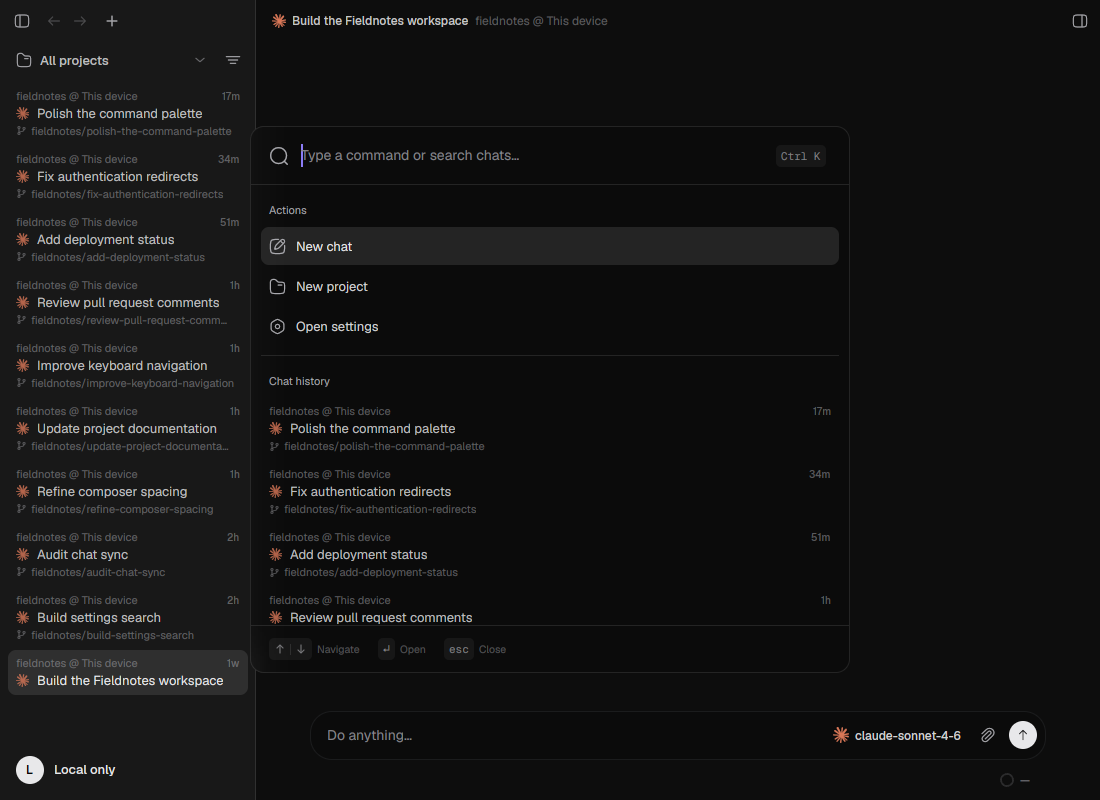
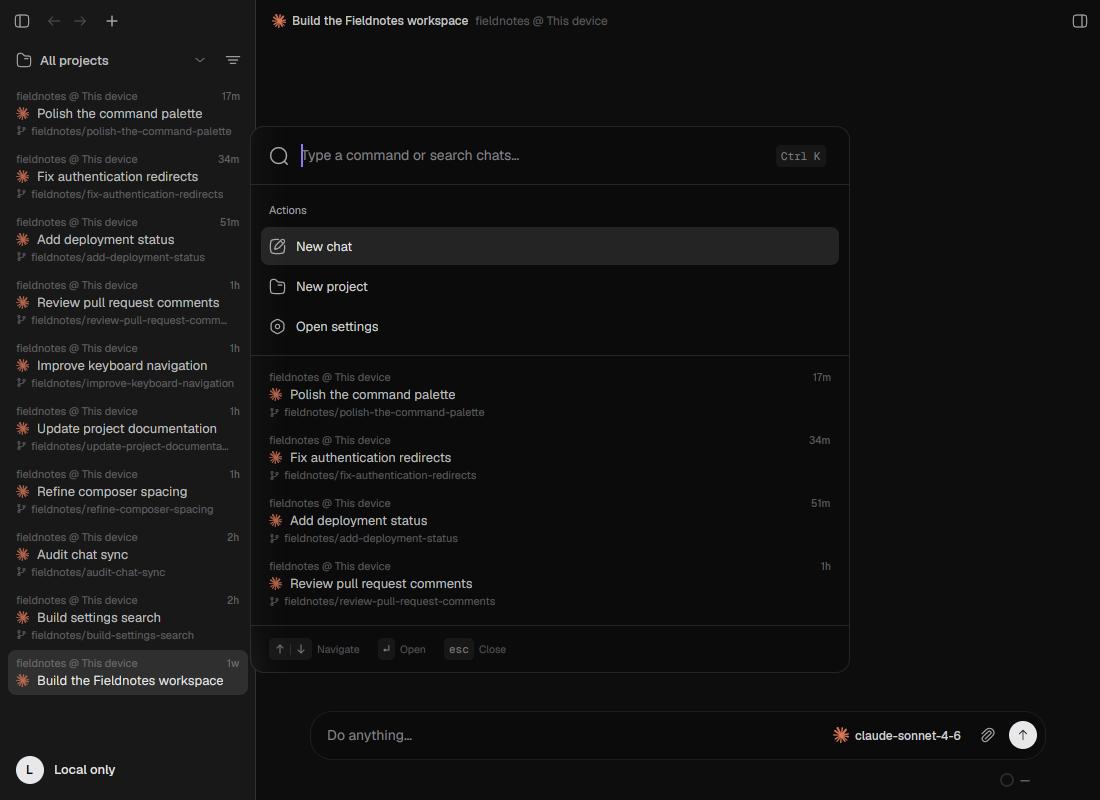
Refine palette divider and highlight search matches in accent color

Changed region(s): [[0.2473, 0.4688, 0.4327, 0.7812]]

diff --git a/crates/ui/src/shell/command_palette.rs b/crates/ui/src/shell/command_palette.rs
@@ -152,6 +152,7 @@ impl Shell {
         palette.active = palette.active.min(entries.len().saturating_sub(1));
         let active = palette.active;
         let search = palette.search.clone();
+        let query = search.read(cx).text().to_string();
         let focus = palette.focus.clone();
         let scroll = palette.scroll.clone();
         let theme = Theme::of(cx).clone();
@@ -160,18 +161,16 @@ impl Shell {
         for (ix, entry) in entries.iter().enumerate() {
             let mut row = div().id(("command-result", ix)).flex_none();
             if ix == 0 && action_count > 0 {
-                row = row.child(section_label("Actions", &theme));
+                row = row.child(div().px(px(10.0)).child(section_label("Actions", &theme)));
             }
-            if ix == action_count && ix < entries.len() {
+            if ix == action_count && action_count > 0 {
                 row = row.child(
                     div()
-                        .when(action_count > 0, |el| {
-                            el.mt(px(8.0))
-                                .pt(px(8.0))
-                                .border_t_1()
-                                .border_color(theme.border)
-                        })
-                        .child(section_label("Chat history", &theme)),
+                        .mt(px(8.0))
+                        .mb(px(8.0))
+                        .h(px(1.0))
+                        .w_full()
+                        .bg(theme.border),
                 );
             }
             let content = if let Some((label, glyph)) = entry.action() {
@@ -183,7 +182,11 @@ impl Shell {
                         this.activate_command(entry.clone(), window, cx)
                     }))
                     .child(icon(glyph).size(px(17.0)).text_color(theme.text_muted))
-                    .child(label)
+                    .child(popover::search_highlight(
+                        label.into(),
+                        Some(&query),
+                        &theme,
+                    ))
                     .into_any_element()
             } else if let Entry::Chat(id) = entry {
                 let state = self.state.read(cx);
@@ -228,13 +231,14 @@ impl Shell {
                     ix == active,
                     chat.archived,
                     None,
+                    Some(&query),
                     &theme,
                     cx,
                 )
             } else {
                 unreachable!()
             };
-            rows.push(row.child(content));
+            rows.push(row.child(div().px(px(10.0)).child(content)));
         }
         let height = (f32::from(viewport.height) - 180.0).clamp(100.0, 440.0);
         let body = div()
@@ -243,7 +247,6 @@ impl Shell {
             .max_h(px(height))
             .overflow_y_scroll()
             .track_scroll(&scroll)
-            .px(px(10.0))
             .py(px(8.0))
             .flex()
             .flex_col()

diff --git a/crates/ui/src/popover.rs b/crates/ui/src/popover.rs
@@ -2190,3 +2190,84 @@ mod tests {
         assert!(!bar.visible());
     }
 }
+
+/// Accent-colored query matches that retain the surrounding row's text style.
+/// Map case-folded bytes back to the original UTF-8 boundaries (e.g. İ → i̇).
+pub(crate) fn search_highlight(
+    text: SharedString,
+    query: Option<&str>,
+    theme: &Theme,
+) -> AnyElement {
+    let Some(query) = query.filter(|query| !query.trim().is_empty()) else {
+        return text.into_any_element();
+    };
+    let ranges = search_match_ranges(&text, query);
+    gpui::StyledText::new(text)
+        .with_highlights(ranges.into_iter().map(|range| {
+            (
+                range,
+                gpui::HighlightStyle {
+                    color: Some(theme.accent),
+                    ..Default::default()
+                },
+            )
+        }))
+        .into_any_element()
+}
+
+fn search_match_ranges(text: &str, query: &str) -> Vec<std::ops::Range<usize>> {
+    let folded = text.to_lowercase();
+    let mut original = Vec::with_capacity(folded.len());
+    for (start, ch) in text.char_indices() {
+        let range = start..start + ch.len_utf8();
+        for lower in ch.to_lowercase() {
+            original.extend(std::iter::repeat_n(range.clone(), lower.len_utf8()));
+        }
+    }
+    let mut ranges = Vec::new();
+    for word in query.to_lowercase().split_whitespace() {
+        for (start, _) in folded.match_indices(word) {
+            ranges.push(original[start].start..original[start + word.len() - 1].end);
+        }
+    }
+    ranges.sort_by_key(|range| range.start);
+    let mut merged: Vec<std::ops::Range<usize>> = Vec::new();
+    for range in ranges {
+        if let Some(last) = merged.last_mut()
+            && range.start <= last.end
+        {
+            last.end = last.end.max(range.end);
+        } else {
+            merged.push(range);
+        }
+    }
+    merged
+}
+
+#[cfg(test)]
+mod search_highlight_tests {
+    use super::search_match_ranges;
+
+    #[test]
+    fn highlights_repeated_case_insensitive_and_overlapping_words() {
+        assert_eq!(
+            search_match_ranges("New chat, new project", "NEW"),
+            vec![0..3, 10..13]
+        );
+        assert_eq!(
+            search_match_ranges("authentication", "auth authentication"),
+            vec![0..14]
+        );
+        assert!(search_match_ranges("New chat", "  ").is_empty());
+        assert!(search_match_ranges("New chat", "settings").is_empty());
+    }
+
+    #[test]
+    fn preserves_original_unicode_boundaries_after_lowercase_expansion() {
+        assert_eq!(
+            search_match_ranges("İstanbul café", "i CAFÉ"),
+            vec![0..2, 10..15]
+        );
+        assert_eq!(search_match_ranges("🚀 CAFÉ", "café"), vec![5..10]);
+    }
+}

diff --git a/crates/ui/src/shell.rs b/crates/ui/src/shell.rs
@@ -5476,6 +5476,7 @@ impl Shell {
         // nine chips appear together instead of leaving a hole on whichever
         // row is busy or under the pointer.
         jump_label: Option<SharedString>,
+        search_query: Option<&str>,
         theme: &Theme,
         cx: &mut Context<Self>,
     ) -> AnyElement {
@@ -5748,7 +5749,7 @@ impl Shell {
                             .text_size(crate::typography::ui_rems(11.0))
                             .line_height(px(14.0))
                             .text_color(subline)
-                            .child(space_name),
+                            .child(popover::search_highlight(space_name, search_query, theme)),
                     )
                     .child(div().text_color(subline).child(corner)),
             )
@@ -5779,7 +5780,7 @@ impl Shell {
                             .truncate()
                             .text_size(crate::typography::ui_rems(13.0))
                             .line_height(px(17.0))
-                            .child(title),
+                            .child(popover::search_highlight(title, search_query, theme)),
                     ),
             )
             // Line 3 is structural, not reserved whitespace: compact states
@@ -5806,17 +5807,18 @@ impl Shell {
                                     .text_size(crate::typography::ui_rems(11.0))
                                     .line_height(px(14.0))
                                     .text_color(subline)
-                                    .child(branch),
+                                    .child(popover::search_highlight(branch, search_query, theme)),
                             )
                         })
                         // Stable invisible spring keeps the optional PR badge
                         // pinned right without changing no-PR paint.
                         .child(div().flex_1().min_w_0())
                         .when_some(change_request, |el, summary| {
-                            el.child(crate::change_requests::pull_request_badge(
+                            el.child(crate::change_requests::pull_request_badge_with_query(
                                 format!("chat-pr-{id}").into(),
                                 summary,
                                 crate::change_requests::ChangeRequestBadgeSurface::Sidebar,
+                                search_query,
                                 theme,
                             ))
                         }),

diff --git a/crates/ui/src/change_requests.rs b/crates/ui/src/change_requests.rs
@@ -120,6 +120,16 @@ pub(crate) fn pull_request_badge(
     surface: ChangeRequestBadgeSurface,
     theme: &Theme,
 ) -> AnyElement {
+    pull_request_badge_with_query(id, summary, surface, None, theme)
+}
+
+pub(crate) fn pull_request_badge_with_query(
+    id: SharedString,
+    summary: ChangeRequestSummary,
+    surface: ChangeRequestBadgeSurface,
+    query: Option<&str>,
+    theme: &Theme,
+) -> AnyElement {
     let model = ChangeRequestBadgeModel::from_summary(&summary);
     let color = model.tone.color(theme);
     let url = summary.url.clone();
@@ -163,7 +173,7 @@ pub(crate) fn pull_request_badge(
         .child(
             div()
                 .font_family(theme.font_mono.clone())
-                .child(model.number),
+                .child(crate::popover::search_highlight(model.number, query, theme)),
         )
         .into_any_element()
 }

diff --git a/crates/ui/src/shell/spaces.rs b/crates/ui/src/shell/spaces.rs
@@ -1304,6 +1304,7 @@ impl Shell {
                     is_selected,
                     false,
                     jump_label,
+                    None,
                     theme,
                     cx,
                 );

diff --git a/docs/screenshots/command-palette/README.md b/docs/screenshots/command-palette/README.md
@@ -9,6 +9,8 @@ Verified interactively on Linux/X11:
 
 - First-open typing searches the palette, leaving the composer untouched.
 - Actions and chat metadata filter together; a chat-only match hides Actions.
+- Matching text uses the theme accent, including action labels, titles, and branches.
+- The action/history divider spans the card; chat history has no heading.
 - Up/Down wraps and scrolls the selected result into view; Enter opens it.
 - New chat, New project, and Open settings reach their respective screens.
 - New project no longer shows the Cmd+K chip.
